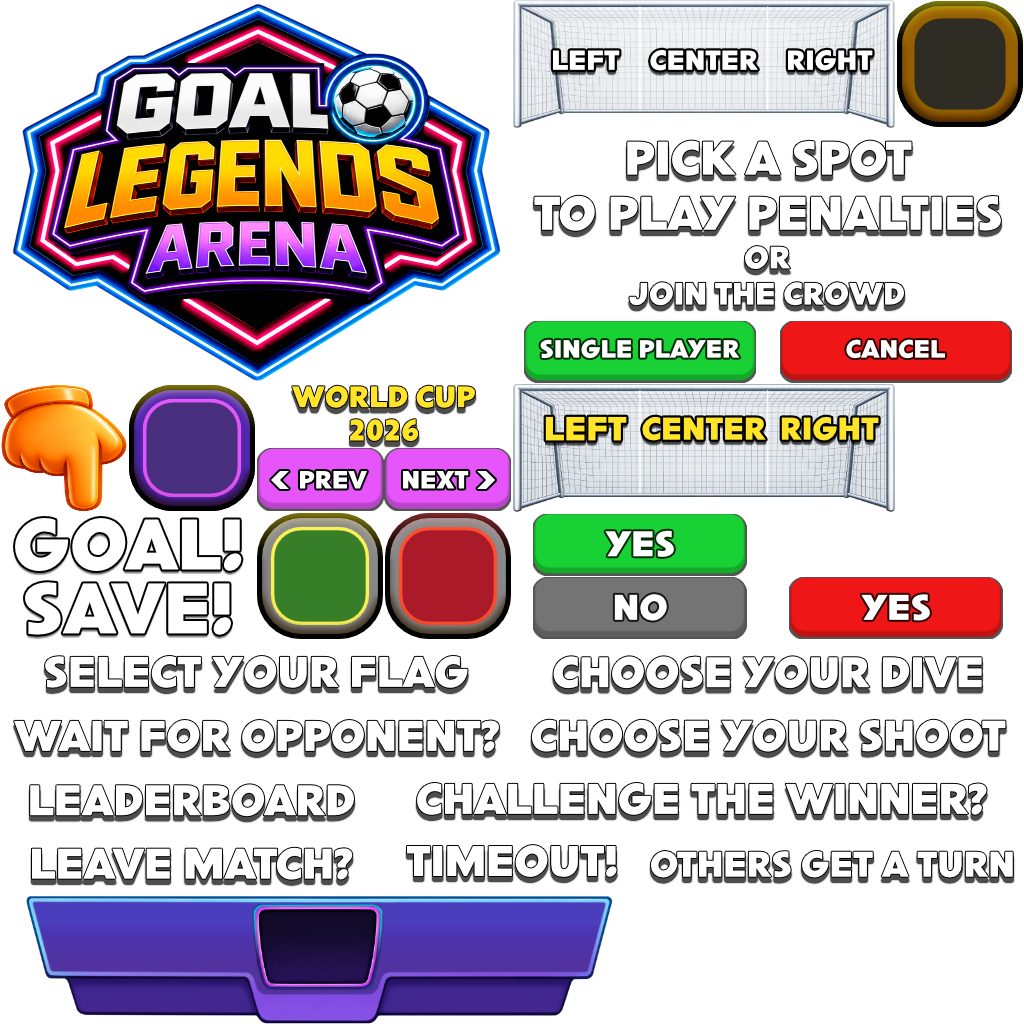
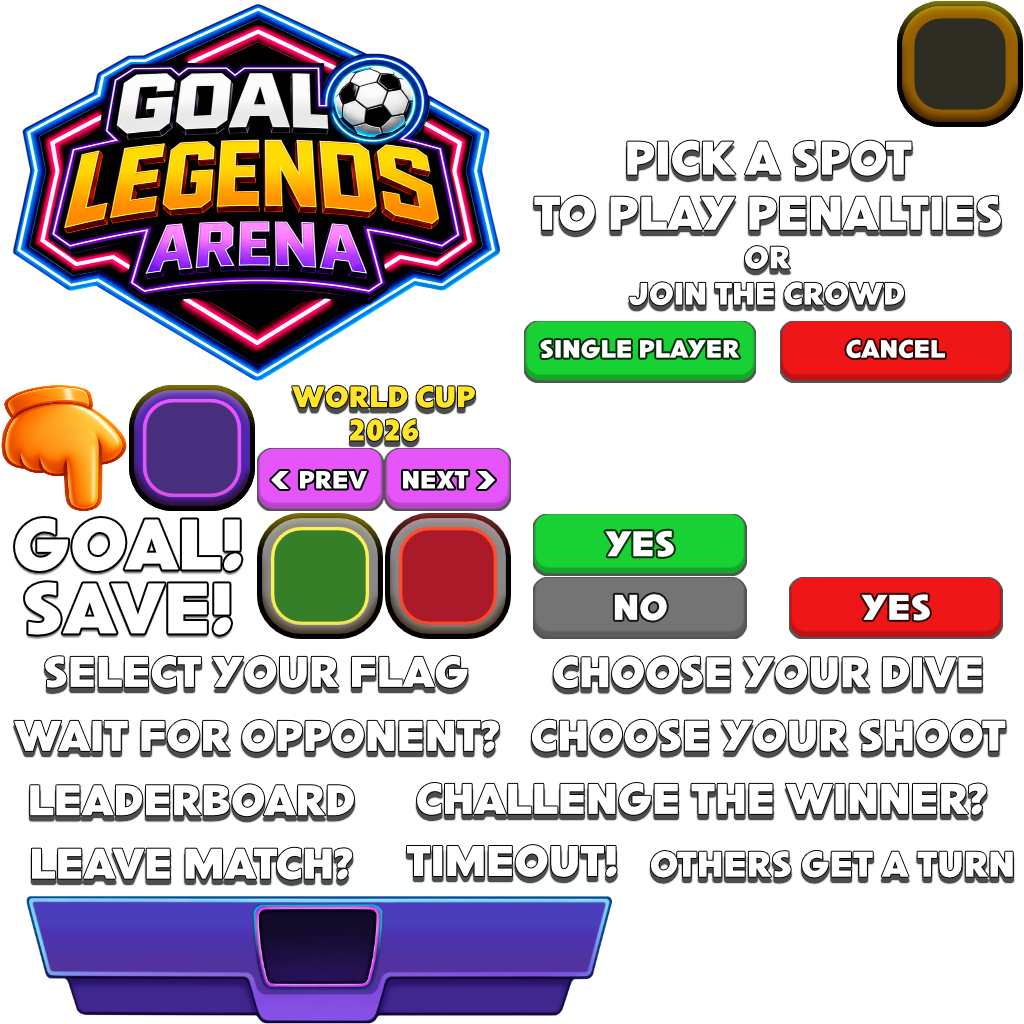
Improve Pick directions images

Changed region(s): [[0.5, 0.375, 0.875, 0.5], [0.5, 0.0, 0.875, 0.125]]

diff --git a/src/client/uiAtlasStore.ts b/src/client/uiAtlasStore.ts
@@ -4,6 +4,10 @@ export const UI_ATLAS_SRC = 'assets/images/UI_atlas.png'
 const UI_ATLAS_COLS = 8
 const UI_ATLAS_ROWS = 16
 
+export const UI_ATLAS_2_SRC = 'assets/images/UI_atlas_2.png'
+const UI_ATLAS_2_COLS = 8
+const UI_ATLAS_2_ROWS = 8
+
 /**
  * UI_atlas.png se referencia como un grid de 8 columnas (A–H) × 16 filas (1–16).
  * Conversión desde el viejo grid de 8 filas: una celda vieja de fila R ocupa las filas
@@ -16,6 +20,15 @@ export const LOGO_COORD_TO = 'D6'
 
 function parseAtlasCell(coordinates: string): { col: number; row: number } | null {
   const m = /^([A-H])(1[0-6]|[1-9])$/i.exec(coordinates.trim())
+  if (!m) return null
+  return {
+    col: m[1].toUpperCase().charCodeAt(0) - 65,
+    row: parseInt(m[2], 10) - 1
+  }
+}
+
+function parseAtlasCell2(coordinates: string): { col: number; row: number } | null {
+  const m = /^([A-H])([1-8])$/i.exec(coordinates.trim())
   if (!m) return null
   return {
     col: m[1].toUpperCase().charCodeAt(0) - 65,
@@ -37,6 +50,37 @@ export function uiAtlasRangeToUvs(from: string, to: string): number[] {
   const v0 = (UI_ATLAS_ROWS - row1 - 1) / UI_ATLAS_ROWS
   const v1 = (UI_ATLAS_ROWS - row0) / UI_ATLAS_ROWS
   return [u0, v0, u0, v1, u1, v1, u1, v0]
+}
+
+export function uiAtlas2RangeToUvs(from: string, to: string): number[] {
+  const a = parseAtlasCell2(from)
+  const b = parseAtlasCell2(to)
+  if (!a || !b) return [0, 0, 0, 1, 1, 1, 1, 0]
+  const col0 = Math.min(a.col, b.col)
+  const col1 = Math.max(a.col, b.col)
+  const row0 = Math.min(a.row, b.row)
+  const row1 = Math.max(a.row, b.row)
+  const u0 = col0 / UI_ATLAS_2_COLS
+  const u1 = (col1 + 1) / UI_ATLAS_2_COLS
+  const v0 = (UI_ATLAS_2_ROWS - row1 - 1) / UI_ATLAS_2_ROWS
+  const v1 = (UI_ATLAS_2_ROWS - row0) / UI_ATLAS_2_ROWS
+  return [u0, v0, u0, v1, u1, v1, u1, v0]
+}
+
+export function uiAtlas2RangeBackground(from: string, to: string) {
+  return {
+    textureMode: 'stretch' as const,
+    texture: { src: UI_ATLAS_2_SRC },
+    uvs: uiAtlas2RangeToUvs(from, to),
+    color: Color4.White()
+  }
+}
+
+export function uiAtlas2RangeAspect(from: string, to: string): number {
+  const uvs = uiAtlas2RangeToUvs(from, to)
+  const uW = uvs[4] - uvs[0]
+  const vH = uvs[5] - uvs[1]
+  return vH === 0 ? 1 : uW / vH
 }
 
 export function uiAtlasRangeBackground(from: string, to: string) {
@@ -74,28 +118,28 @@ export function welcomeChooseSpotOverlayAspect(): number {
 }
 
 export function pickDirectionLeftBackground() {
-  return uiAtlasRangeBackground('E1', 'E2')
+  return uiAtlas2RangeBackground('C7', 'D8')
 }
 
 export function pickDirectionCenterBackground() {
-  return uiAtlasRangeBackground('F1', 'F2')
+  return uiAtlas2RangeBackground('E7', 'F8')
 }
 
 export function pickDirectionRightBackground() {
-  return uiAtlasRangeBackground('G1', 'G2')
+  return uiAtlas2RangeBackground('G7', 'H8')
 }
 
 /** Selected-state sprites for the L/C/R buttons (E1–E2/F1–F2/G1–G2 → E7–E8/F7–F8/G7–G8). */
 export function pickDirectionLeftSelectedBackground() {
-  return uiAtlasRangeBackground('E7', 'E8')
+  return uiAtlas2RangeBackground('C5', 'D6')
 }
 
 export function pickDirectionCenterSelectedBackground() {
-  return uiAtlasRangeBackground('F7', 'F8')
+  return uiAtlas2RangeBackground('E5', 'F6')
 }
 
 export function pickDirectionRightSelectedBackground() {
-  return uiAtlasRangeBackground('G7', 'G8')
+  return uiAtlas2RangeBackground('G5', 'H6')
 }
 
 /** Pick title — DIVE on UI_atlas E11–H11, SHOOT on E12–H12. */
